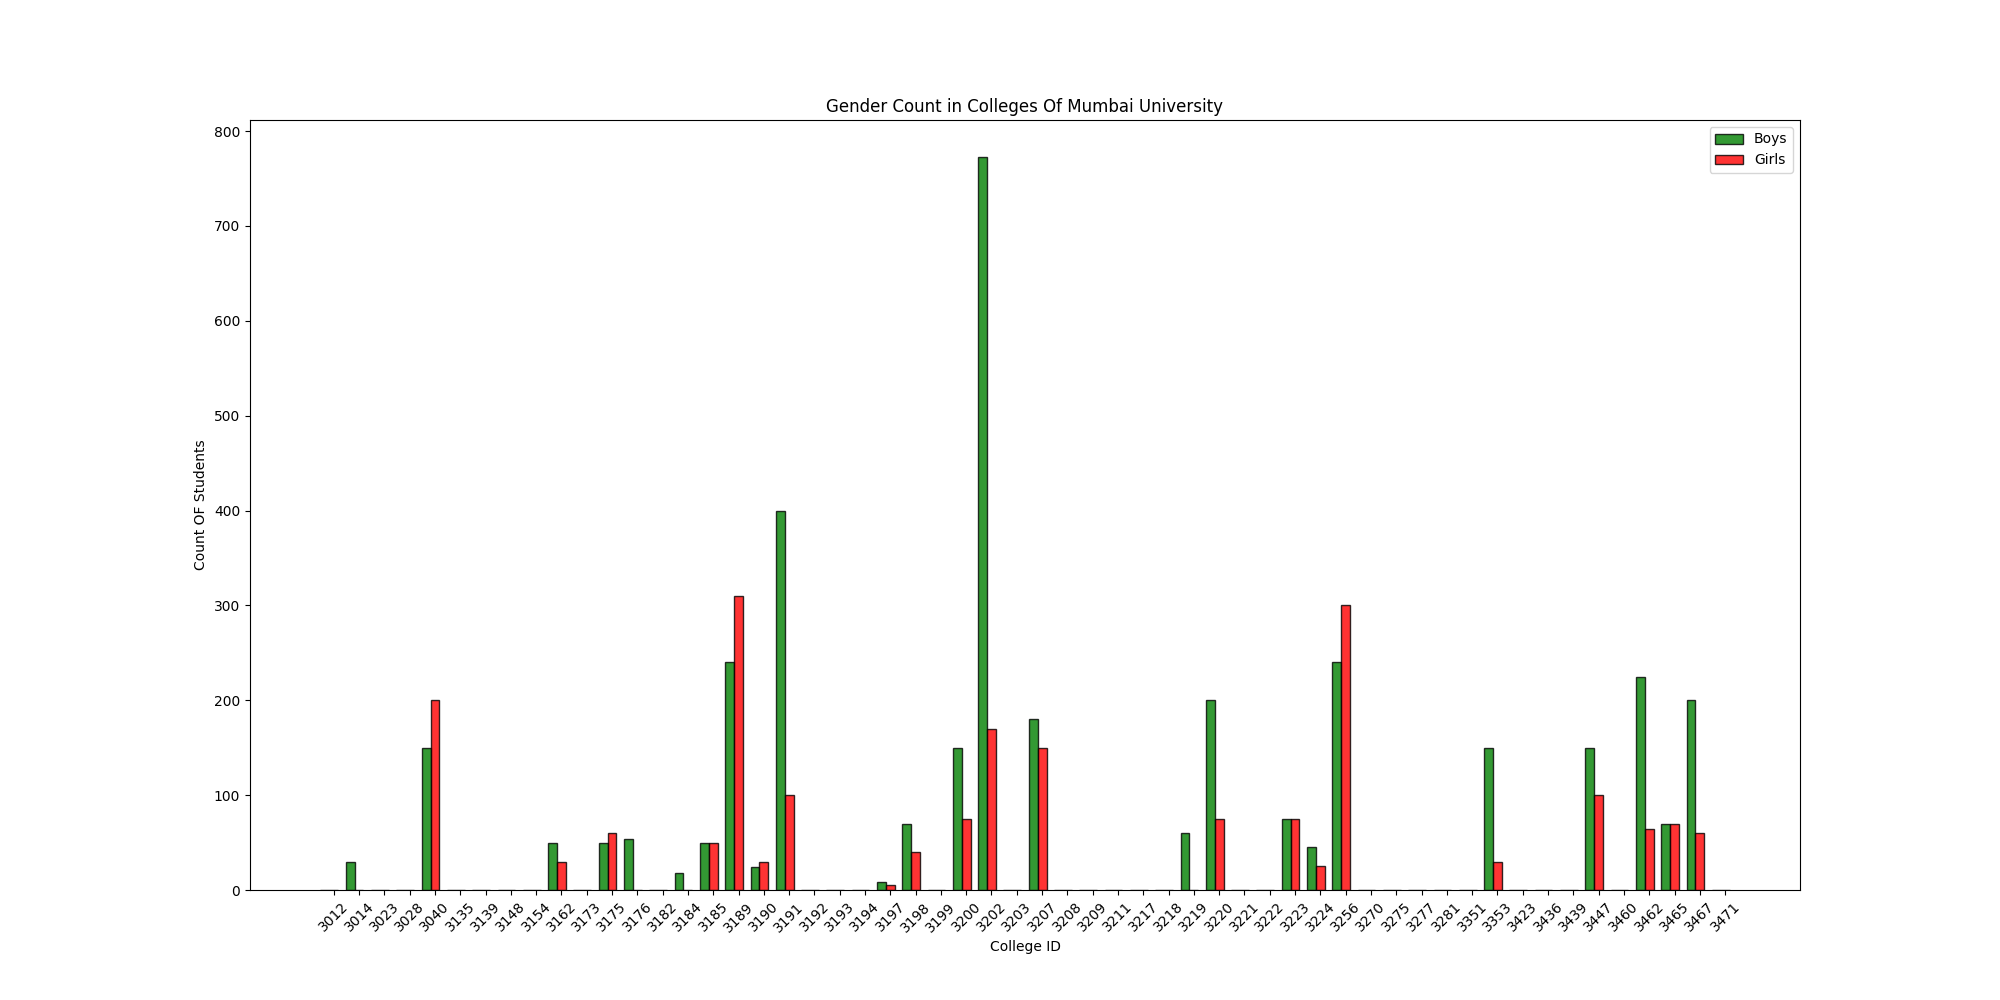
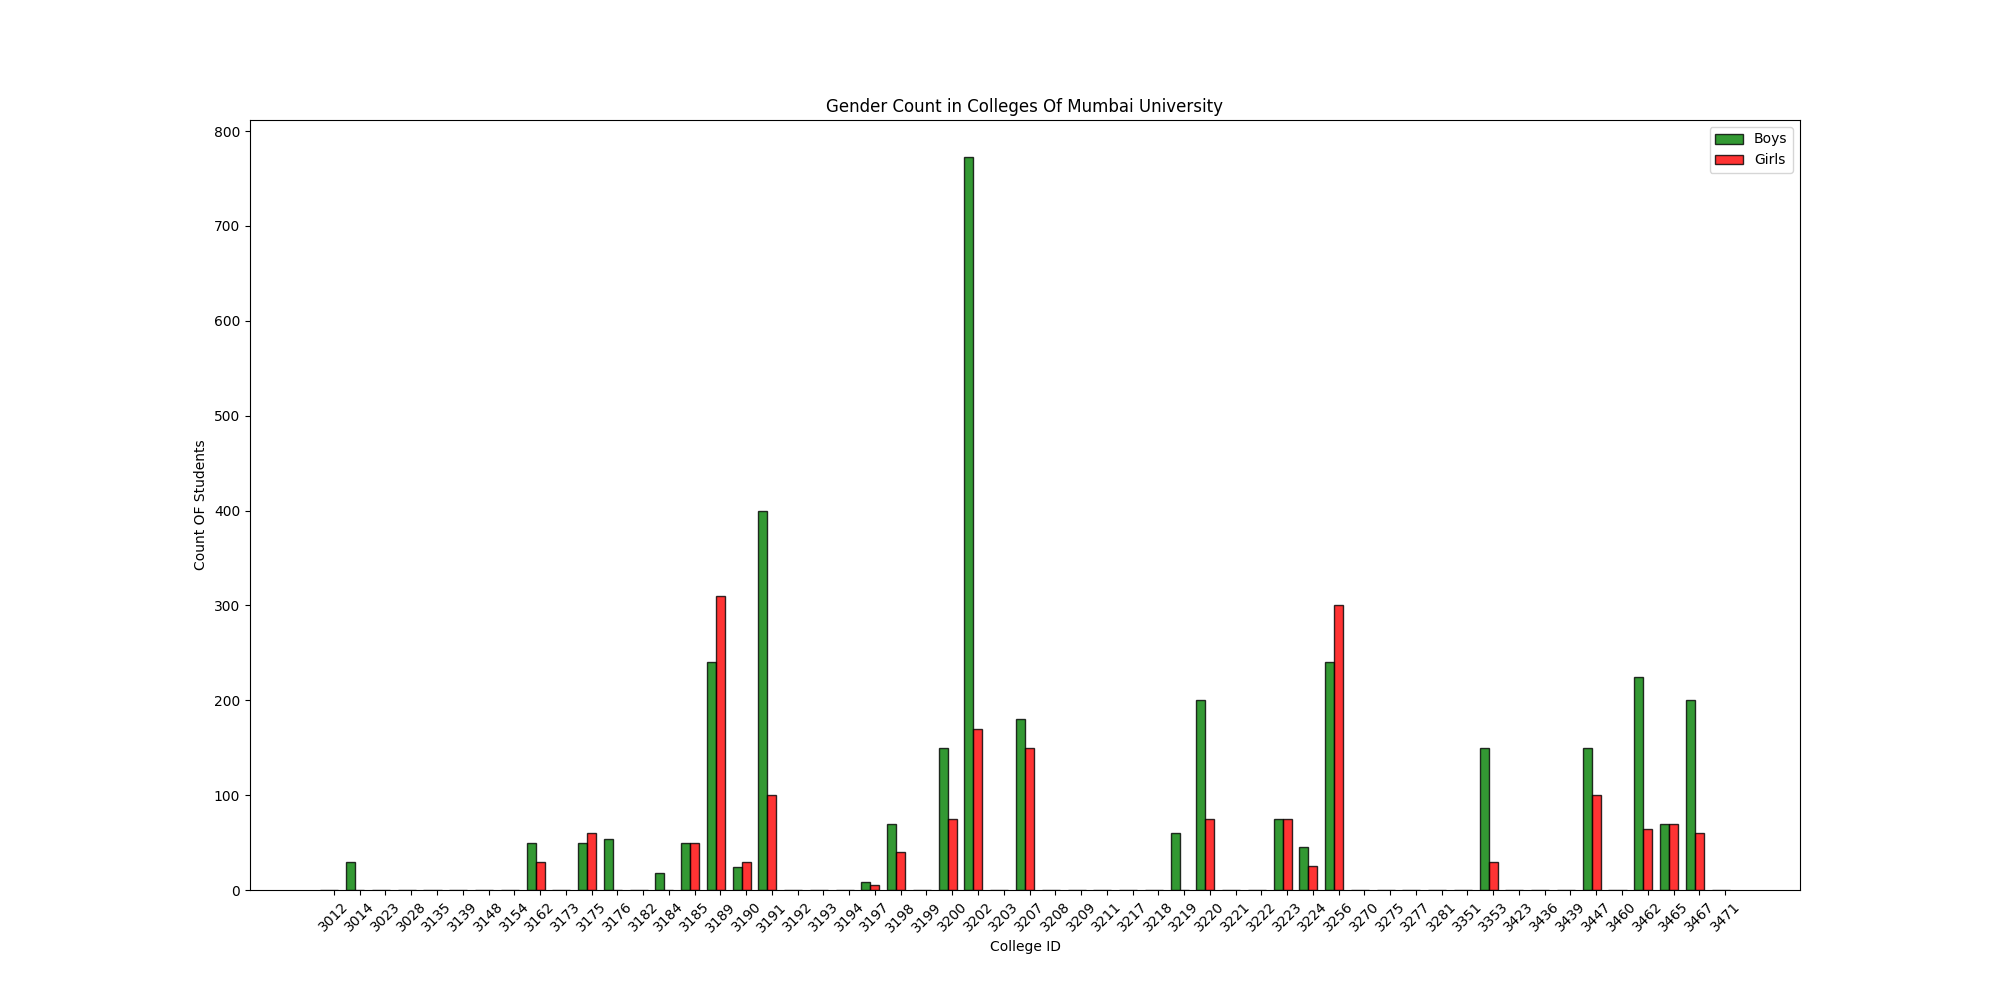
Add files via upload

Changed region(s): [[0.186, 0.155, 0.868, 0.93]]

diff --git a/templates/index.html b/templates/index.html
@@ -27,6 +27,9 @@ h3{
  
 }
 
+p{
+  color:red;
+}
 .row:after {
   display: table;
   clear: both;
@@ -91,7 +94,11 @@ h3{
       <h3>Gender Count In Colleges In Pune University</h3>
       <img  src="static/Gender Count in Colleges In Pune University.png">
     </div>
-  
+
+    <div>
+      <p>Note:<br>1)If Graph is empty there is a possibility of no such value contained in the dataset.<br>
+              2)To overcome this problem please run scraping code completely.</p>
+    </div>  
     </body>
 
 </html>

diff --git a/atharv.py b/atharv.py
@@ -40,7 +40,8 @@ def clgInfoPage(url):                                                  #For Pars
         
 
 if __name__ == "__main__":
-    print("Genrating CSV")
+    
+    print("Genrating CSV Please Wait Until End Of Executuion ")
     f= open('DTE Colleges.csv', 'w+')                                           #Create CSV
     csv_writer = csv.writer(f)
     csv_writer.writerow(["ID","College Name","Region","Location","District","Autonomus_Status","Boys_Total","Girls_Total","Website Link","Contact Number","Email Address","Tpo Name","Tpo Contact Number"])  #Genrate Header
@@ -49,40 +50,47 @@ if __name__ == "__main__":
     region = ['Amravati', 'Aurangabad', 'Mumbai', 'Nagpur', 'Nashik', 'Pune']
     regionID = 1
     for name in region:
-        URL = ("http://www.dtemaharashtra.gov.in/frmInstituteList.aspx?RegionID=" + str(regionID) + "&RegionName=" + name)
-        page = requests.get(URL)
-        soup = BeautifulSoup(page.content, 'html.parser')
-        tables = soup.find("table", {"class": "DataGrid"})
-        college_tags = tables.findChildren("td")
-        i = 3
+        try:
+            URL = ("http://www.dtemaharashtra.gov.in/frmInstituteList.aspx?RegionID=" + str(regionID) + "&RegionName=" + name)
+            page = requests.get(URL)
+            soup = BeautifulSoup(page.content, 'html.parser')
+            tables = soup.find("table", {"class": "DataGrid"})
+            college_tags = tables.findChildren("td")
+            i = 3
 
-        #Validate Engineering College
-        word1 = "Engineering"
-        word2 = "Technology"
-        word3 = "Technical"
-        word4 = "Technological"
-        institute_code = []
-        go_to_college_link = []
-        while True:
-            if (i <= len(college_tags)):
-                name = college_tags[i].text
-                if word1 in name or word2 in name or word3 in name or word4 in name:
-                    institute_code.append(college_tags[i - 1])
-            else:
-                break
-            i = i + 3
+            #Validate Engineering College
+            word1 = "Engineering"
+            word2 = "Technology"
+            word3 = "Technical"
+            word4 = "Technological"
+            institute_code = []
+            go_to_college_link = []
+            while True:
+                if (i <= len(college_tags)):
+                    name = college_tags[i].text
+                    if word1 in name or word2 in name or word3 in name or word4 in name:
+                        institute_code.append(college_tags[i - 1])
+                else:
+                    break
+                i = i + 3
 
-        #Append Engineering College link in go_to_college_link URL List
-        for institute in institute_code:
-            clg_link = institute.find('a', {'href': re.compile("^frm")})
-            go_to_college_link.append("http://dtemaharashtra.gov.in/" + clg_link.get('href'))
-        
-        
-        #Traverse go_to_college_link list to scrape each college information page
-        for link in go_to_college_link:
-            clgInfoPage(link)
+            #Append Engineering College link in go_to_college_link URL List
+            for institute in institute_code:
+                clg_link = institute.find('a', {'href': re.compile("^frm")})
+                go_to_college_link.append("http://dtemaharashtra.gov.in/" + clg_link.get('href'))
             
-
-        regionID = regionID + 1   #Change The Region
+            
+            #Traverse go_to_college_link list to scrape each college information page
+            for link in go_to_college_link:
+                try:
+                    clgInfoPage(link)
+                except:
+                    print("Don't press any key to terminate program")
+                    pass
+            regionID = regionID + 1   #Change The Region
+        except:
+            print("Don't press any key to terminate program")
+            pass
+        
     print("END")
     f.close()

diff --git a/visualization.py b/visualization.py
@@ -143,10 +143,8 @@ def categoricalPlot(clgData):
         
     fig, ax = plt.subplots(figsize=(20,10))
     x=clgData["District"].value_counts()
-    names = ['Pune', 'Nagpur', 'Nashik', 'Jalgaon', 'Aurangabad', 'Kolhapur','Ahmednagar', 'Solapur', 'Raigad', 'Thane', 'Mumbai Suburban','Amravati', 'Sangli', 'Satara', 'Wardha', 'Nanded', 'Dhule','Mumbai City', 'Palghar', 'Buldhana', 'Yavatmal', 'Latur', 'Ratnagiri','Osmanabad', 'Chandrapur', 'Beed', 'Gondia', 'Parbhani', 'Hingoli','Jalna', 'Akola', 'Washim', 'Bhandara', 'Nandurbar', 'Gadchiroli'
-    ]
-    values = [x.Pune,x.Nagpur,x.Nashik,x.Jalgaon,x.Aurangabad,x.Kolhapur,x.Ahmednagar,x.Solapur,x.Raigad,x.Thane,x[10],x.Amravati,x.Sangli,x.Satara,x.Wardha,x.Nanded,x.Dhule,x[17],x[18],x[19],x[20],x[21],x[22],x[23],x[24],x[25],x[26],x[27],x[28],x[29],x[30],x[31],x[32],x[33],x[34]]
-
+    names = list(x.keys())
+    values = [ x[i] for i in range (len(x))]
 
     plt.scatter(names, values)
     plt.plot(names, values)
@@ -389,7 +387,7 @@ def index():
     return render_template('index.html')     #Render The Template for visualization of data
 
 if __name__=="__main__":
-    app.run(debug=True)                      #To Start The Web App
+    app.run(debug=True)                   
     
     
     
